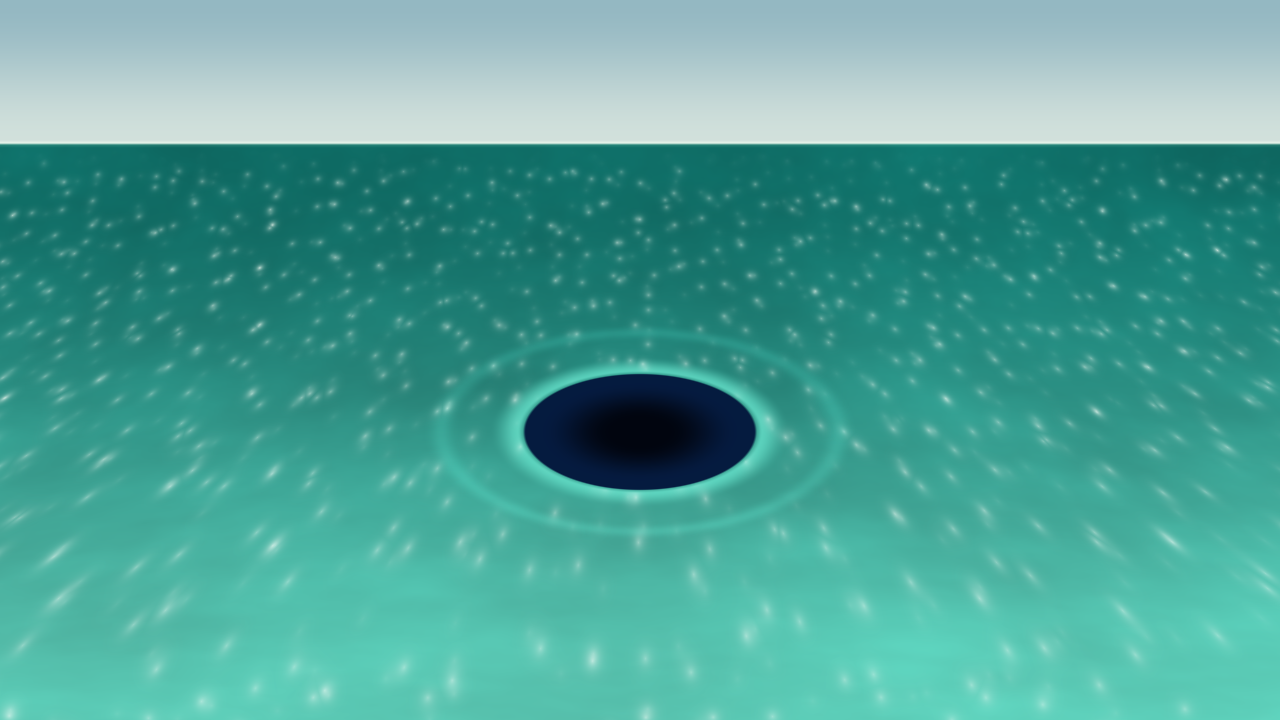
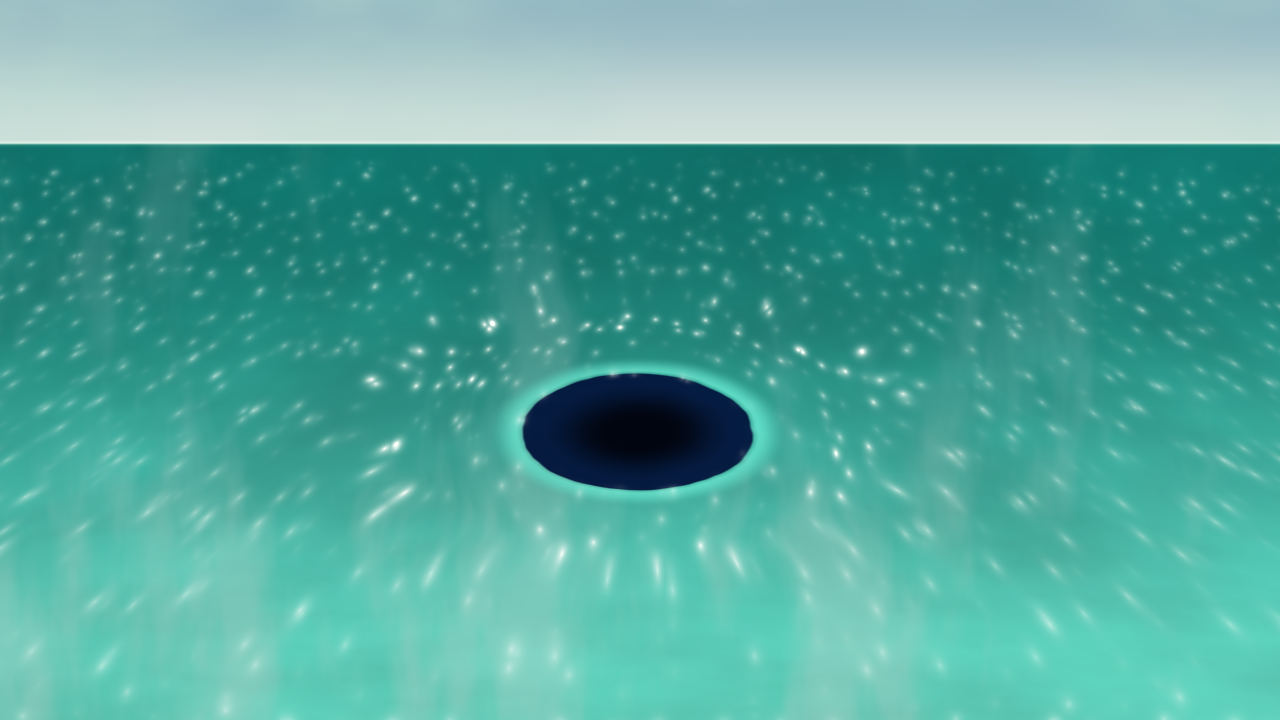
le-mystere-abyssal: revert pulse to screen-space wrap (tighter)
The ground-projected perspective pulse read way worse live than the
stylized wrap it replaced — Louis's call, reverted to the screen-space
ellipse with a tighter band (sigma 0.085 -> 0.070, his original ask).
Verified in motion this time (clip-w0-t47, pulse reads across frames).
Lesson recorded: post-critique geometry/motion fixes get a clip
watched before handback; physically-truer is not better when the
stylization is the charm.

diff --git a/tasks/lessons.md b/tasks/lessons.md
@@ -99,3 +99,6 @@ file is the human-readable index.
   too. Rework staged behind the deep-research pass — brief at
   `learning/critic-rework-research-brief.md`.
   (`feedback_binary_critic_criteria.md`)
+- **Fix without regrade** — post-critique geometry/motion fixes get a
+  clip watched before handback; stills + "motion will tell" shipped
+  the perspective-pulse regression. (`feedback_fix_without_regrade.md`)